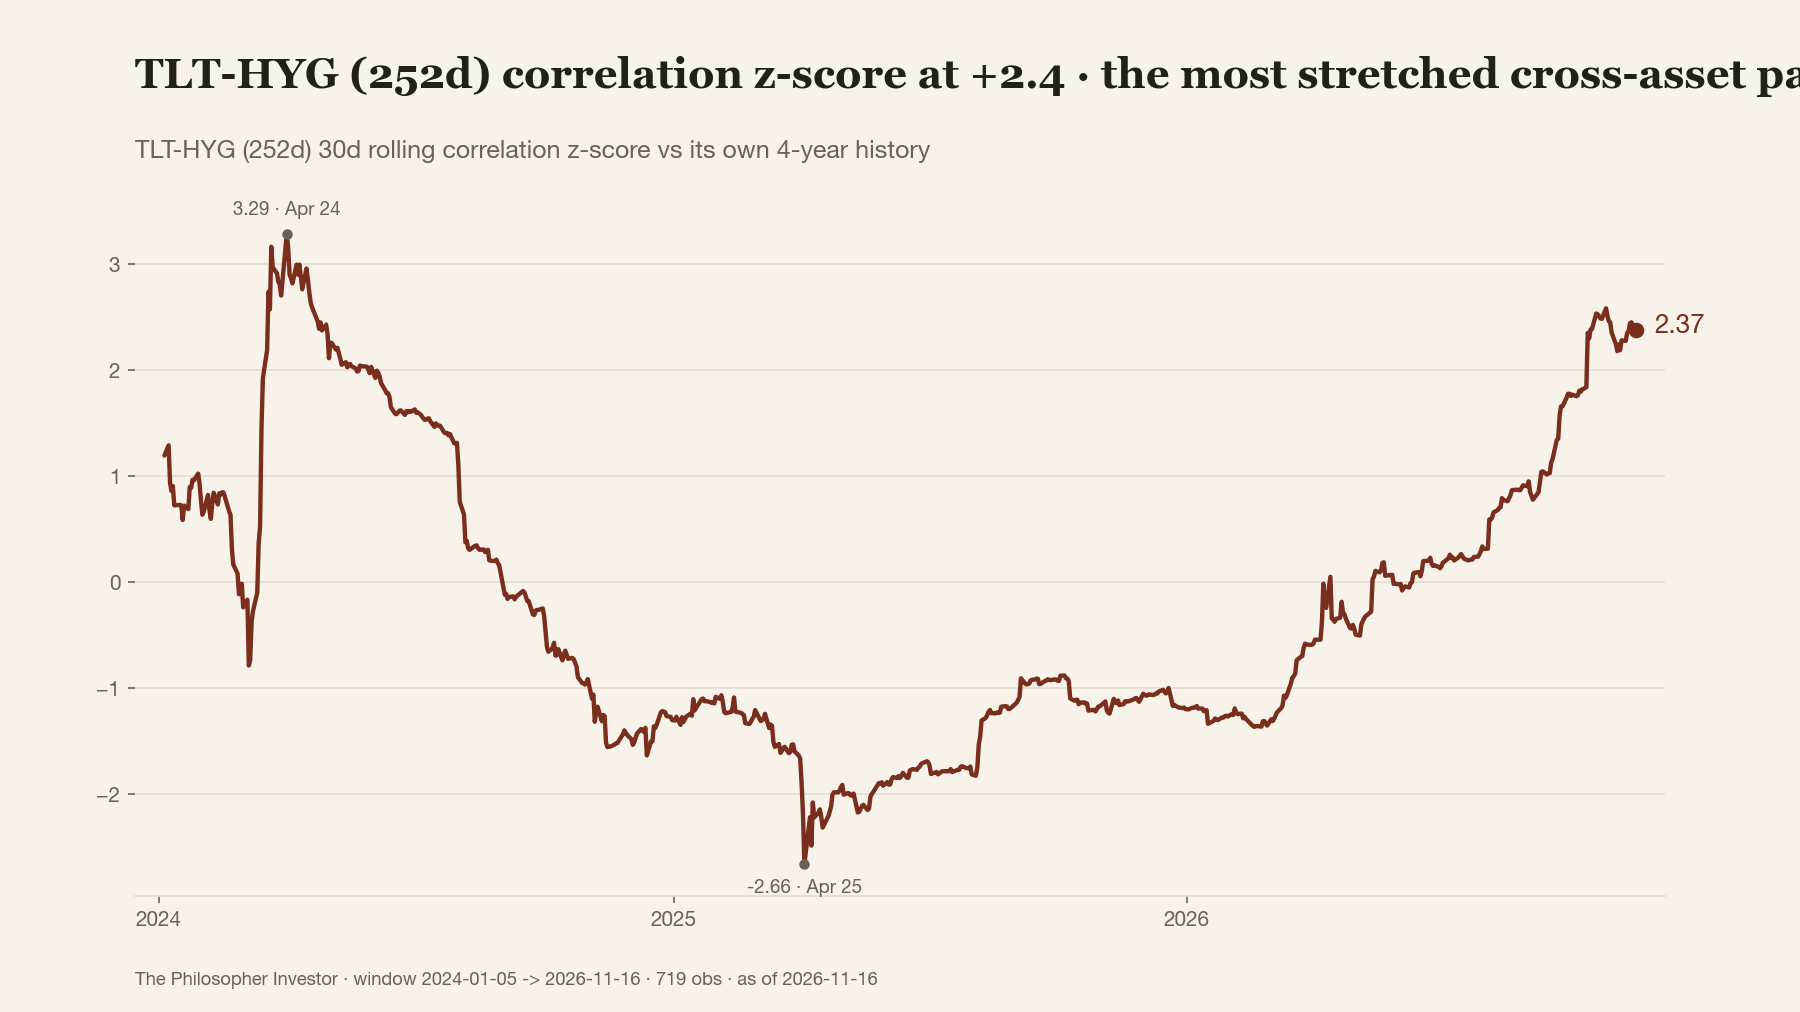
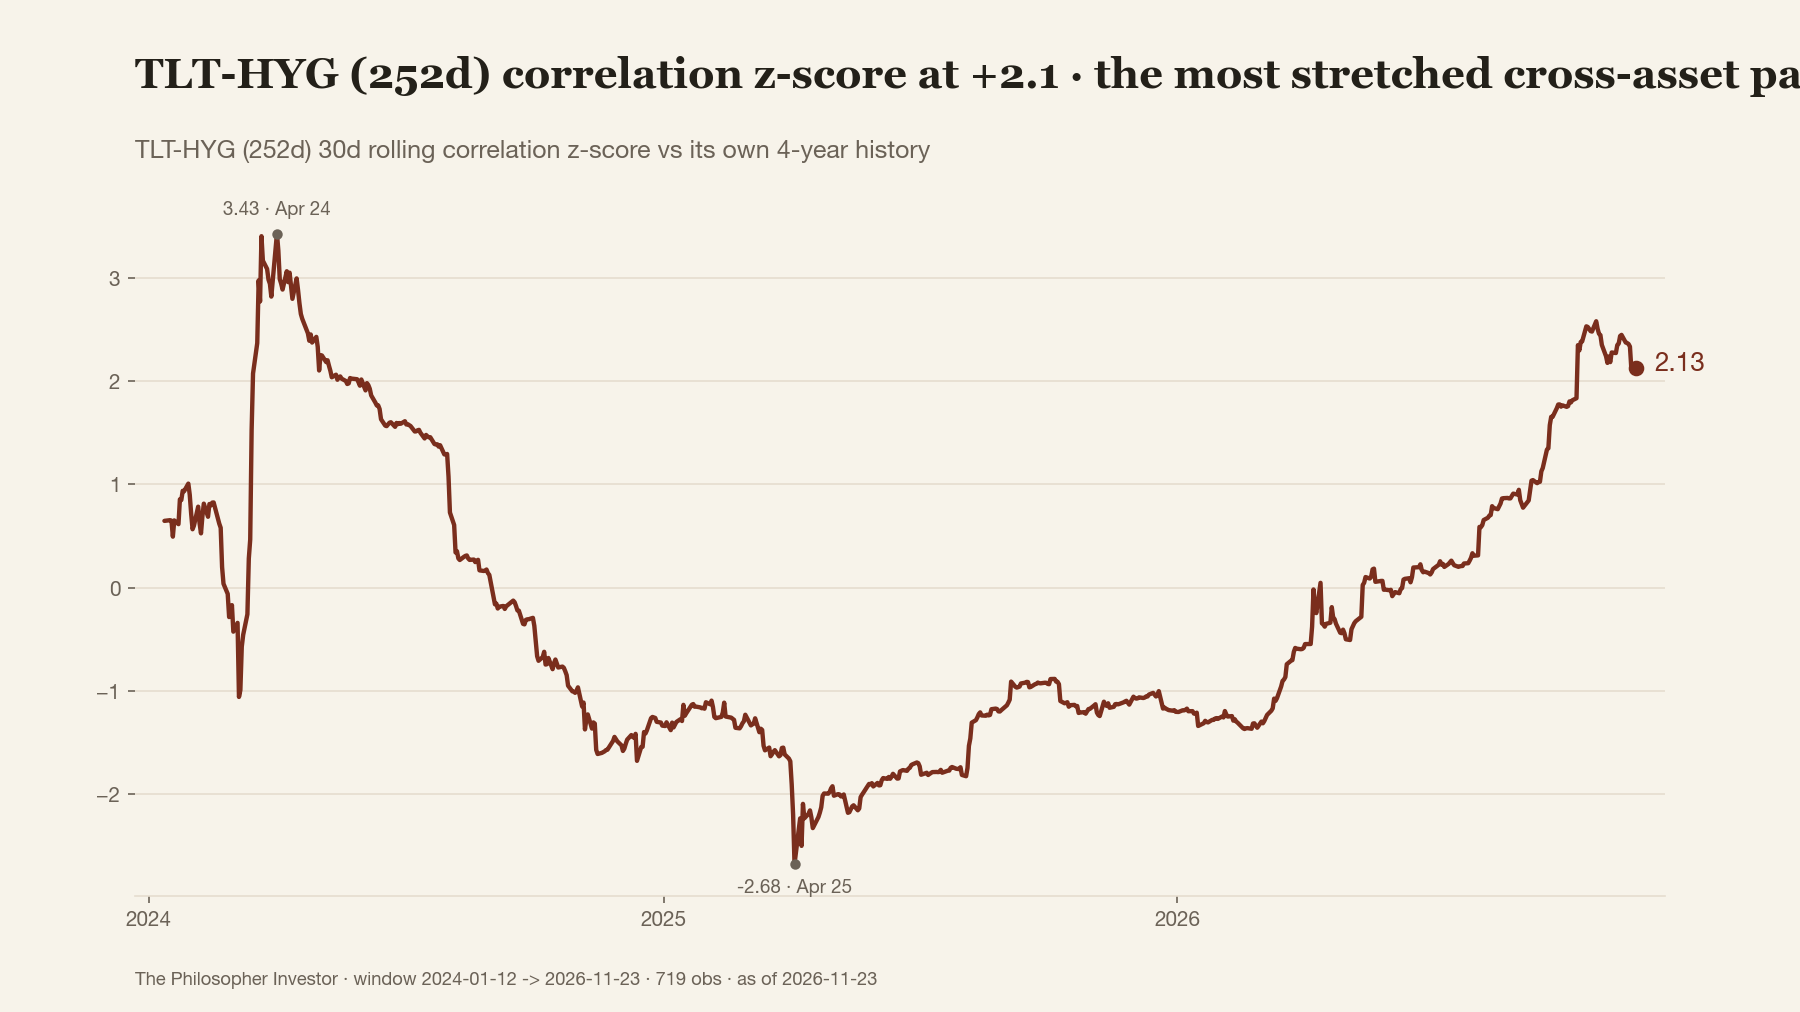
cotw: candidates 2026-11-24

diff --git a/cotw/index.html b/cotw/index.html
@@ -21,4 +21,4 @@ b{font-weight:600}
 @media (prefers-color-scheme:dark){
   body{background:#f9f5ee;color:#2b2622}
 }
-</style></head><body><div class="wrap"><h1>Charts of the Week</h1><p class="sub">8 candidates · data through 2026-11-17</p><div class="reco"><h2>My pick: 1 + 2 + 3 + 5 + 7</h2><p><b>3</b> · <b>49,3 %</b> du S&amp;P 500 a un momentum 20j au-dessus de <b>5 %</b>, <b>95e</b> percentile depuis 2023, alors que l&#x27;indice campe à <b>-5,0 %</b> du sommet du 6 octobre. Lecture descriptive.</p><p><b>5</b> · AAII bull-bear à <b>-20,7</b>, <b>8e</b> percentile depuis 1987. Les particuliers votent baissier pendant que la participation tient. Signal DEFERRED, aucun claim d&#x27;edge.</p><p><b>2</b> · Crypto Fear &amp; Greed à <b>12</b>, <b>4e</b> percentile depuis 2018. Le bout spéculatif du risque paie la facture bien plus cher que le S&amp;P. Série non testée, description seule.</p><p><b>1</b> · Shiller CAPE à <b>40,0</b>, <b>97e</b> percentile depuis 1871, loin sous le record de <b>44,2</b> de décembre 1999. Contexte du prix payé, zéro timing.</p><p><b>7</b> · VVIX/VIX à <b>5,0</b>, <b>9e</b> percentile depuis mi-2025. Le marché de la vol facture peu de convexité sur sa propre vol. Descriptif, aucune prévision.</p><p>Dropped: 4 6 8</p></div><div class="chart" id="c1"><h3>1 <span class="star">★</span></h3><p class="meta">1871-02-01 -&gt; 2026-11-13 · 1,895 obs · source: Robert Shiller</p><img src="c1.png" alt="Shiller CAPE at 40.0 · 97th percentile since 1871" loading="lazy"></div><div class="chart" id="c2"><h3>2 <span class="star">★</span></h3><p class="meta">2018-02-01 -&gt; 2026-11-17 · 3,208 obs · source: alternative.me</p><img src="c2.png" alt="Crypto Fear &amp; Greed at 12 · 4th percentile since 2018" loading="lazy"></div><div class="chart" id="c3"><h3>3 <span class="star">★</span></h3><p class="meta">2023-05-03 -&gt; 2026-11-16 · 889 obs · source: The Philosopher Investor</p><img src="c3.png" alt="49.3% of S&amp;P 500 has 20d momentum above 5% · 95th percentile since 2023" loading="lazy"></div><div class="chart" id="c4"><h3>4</h3><p class="meta">2024-01-05 -&gt; 2026-11-16 · 719 obs · source: The Philosopher Investor</p><img src="c4.png" alt="TLT-HYG (252d) correlation z-score at +2.4 · the most stretched cross-asset pair" loading="lazy"></div><div class="chart" id="c5"><h3>5 <span class="star">★</span></h3><p class="meta">1987-07-24 -&gt; 2026-11-12 · 2,049 obs · source: AAII</p><img src="c5.png" alt="AAII bull-bear spread at -20.7 · 8th percentile since 1987" loading="lazy"></div><div class="chart" id="c6"><h3>6</h3><p class="meta">2025-02-14 -&gt; 2026-11-16 · 434 obs · source: The Philosopher Investor</p><img src="c6.png" alt="Sector jaws momentum at 44.0 · 92nd percentile since early 2025" loading="lazy"></div><div class="chart" id="c7"><h3>7 <span class="star">★</span></h3><p class="meta">2025-05-29 -&gt; 2026-11-16 · 373 obs · source: The Philosopher Investor</p><img src="c7.png" alt="VVIX/VIX ratio at 5.0 · 9th percentile since mid-2025" loading="lazy"></div><div class="chart" id="c8"><h3>8</h3><p class="meta">2022-01-19 -&gt; 2026-11-16 · 1,212 obs · source: The Philosopher Investor</p><img src="c8.png" alt="NASI summation at 2170 · 19th percentile since 2022" loading="lazy"></div></div></body></html>
+</style></head><body><div class="wrap"><h1>Charts of the Week</h1><p class="sub">8 candidates · data through 2026-11-24</p><div class="reco"><h2>My pick: 1 + 3 + 6 + 7 + 8</h2><p><b>6</b> · NASI à <b>2034</b>, <b>10e</b> percentile depuis 2022 : le moteur de breadth refroidit depuis le sommet du <b>6 octobre</b>, SPY à <b>-7,3 %</b> du plus haut</p><p><b>8</b> · Bullish percent S&amp;P 500 à <b>48 %</b>, <b>12e</b> percentile depuis 2023 : moins d&#x27;une action sur deux garde un signal point-and-figure haussier</p><p><b>7</b> · Put/call OCC actions à <b>0,95</b>, <b>88e</b> percentile depuis 2017 : les acheteurs de puts paient la protection pendant que la participation se rétrécit</p><p><b>1</b> · VVIX/VIX à <b>4,4</b>, <b>1er</b> percentile depuis mi-2025 : la volatilité de la volatilité est au plancher face au VIX, structure rare à décrire sans prédire</p><p><b>3</b> · CAPE de Shiller à <b>36,4</b>, <b>95e</b> percentile depuis 1871 : la peur de court terme se joue sur une valorisation qui reste dans le haut de l&#x27;histoire</p><p>Dropped: 2 4 5</p></div><div class="chart" id="c1"><h3>1 <span class="star">★</span></h3><p class="meta">2025-05-29 -&gt; 2026-11-23 · 378 obs · source: The Philosopher Investor</p><img src="c1.png" alt="VVIX/VIX ratio at 4.4 · 1st percentile since mid-2025" loading="lazy"></div><div class="chart" id="c2"><h3>2</h3><p class="meta">2018-02-01 -&gt; 2026-11-24 · 3,215 obs · source: alternative.me</p><img src="c2.png" alt="Crypto Fear &amp; Greed at 11 · 3rd percentile since 2018" loading="lazy"></div><div class="chart" id="c3"><h3>3 <span class="star">★</span></h3><p class="meta">1871-02-01 -&gt; 2026-11-20 · 1,896 obs · source: Robert Shiller</p><img src="c3.png" alt="Shiller CAPE at 36.4 · 95th percentile since 1871" loading="lazy"></div><div class="chart" id="c4"><h3>4</h3><p class="meta">2024-01-12 -&gt; 2026-11-23 · 719 obs · source: The Philosopher Investor</p><img src="c4.png" alt="TLT-HYG (252d) correlation z-score at +2.1 · the most stretched cross-asset pair" loading="lazy"></div><div class="chart" id="c5"><h3>5</h3><p class="meta">2022-01-20 -&gt; 2026-11-23 · 1,215 obs · source: The Philosopher Investor</p><img src="c5.png" alt="0.7% of stocks are RSI-overbought · 10th percentile since 2022" loading="lazy"></div><div class="chart" id="c6"><h3>6 <span class="star">★</span></h3><p class="meta">2022-01-19 -&gt; 2026-11-23 · 1,217 obs · source: The Philosopher Investor</p><img src="c6.png" alt="NASI summation at 2034 · 10th percentile since 2022" loading="lazy"></div><div class="chart" id="c7"><h3>7 <span class="star">★</span></h3><p class="meta">2017-05-05 -&gt; 2026-11-20 · 2,401 obs · source: OCC</p><img src="c7.png" alt="OCC equity put/call at 0.95 · 88th percentile since 2017" loading="lazy"></div><div class="chart" id="c8"><h3>8 <span class="star">★</span></h3><p class="meta">2023-05-01 -&gt; 2026-11-23 · 896 obs · source: The Philosopher Investor</p><img src="c8.png" alt="S&amp;P 500 bullish percent at 48 · 12th percentile since 2023" loading="lazy"></div></div></body></html>
